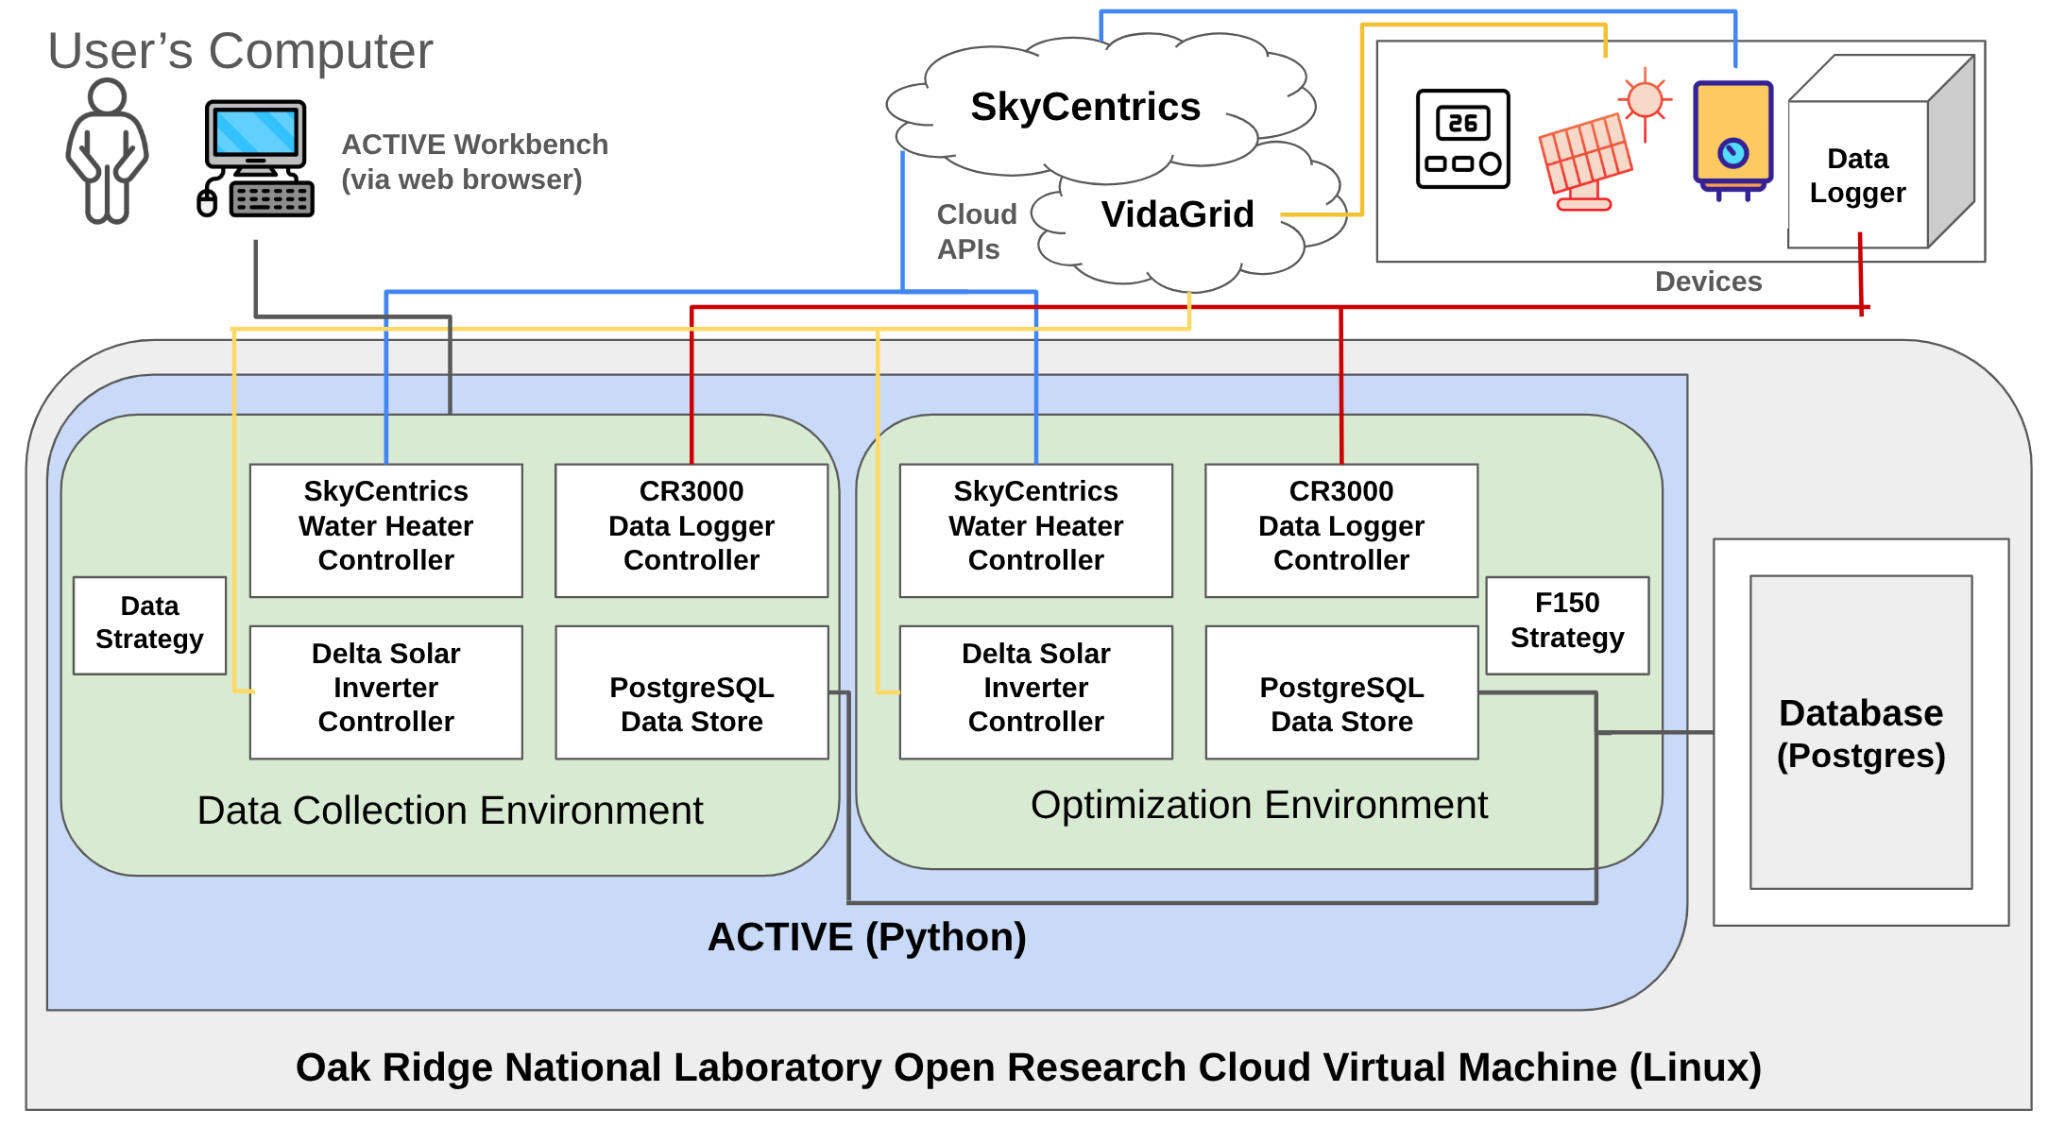
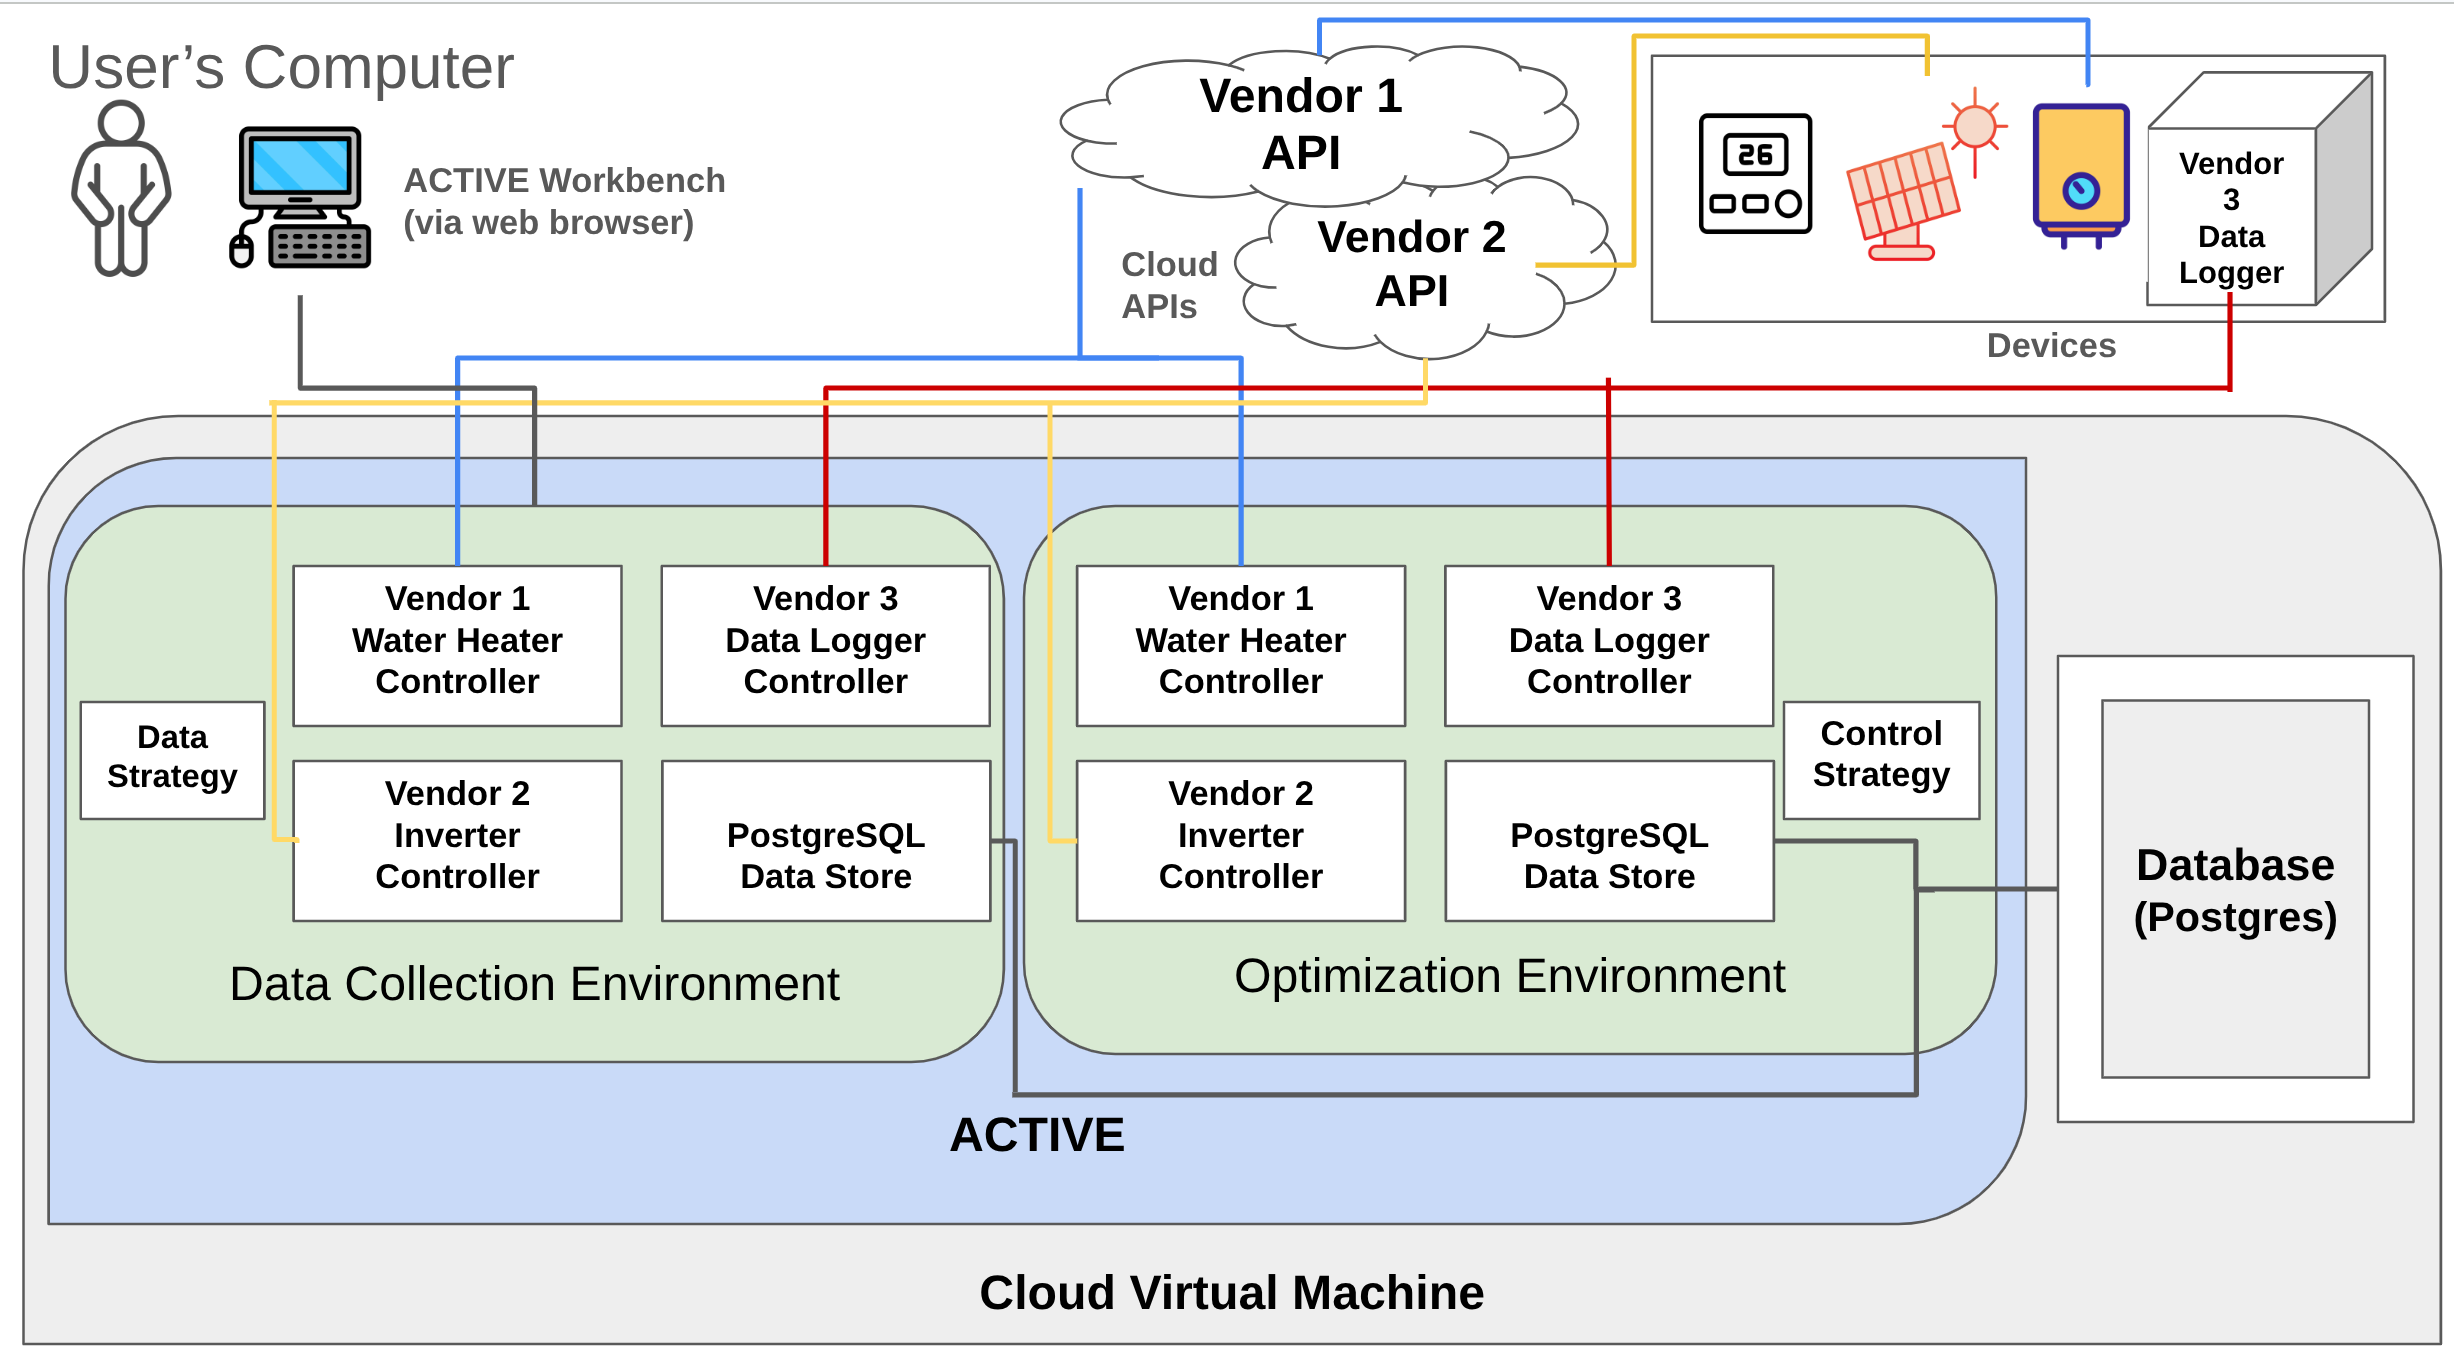
Improved project overview
Added more detailed example case to project overview in README

Changed region(s): [[0.0, 0.0, 1.0, 0.9982]]

diff --git a/README.md b/README.md
@@ -4,10 +4,13 @@ The Automated Control Testbed for Integration, Verification, and Emulation (ACTI
 
 ## Overview
 
-ACTIVE is used to perform deployment and testing of facility management research codes. The general use case involves wrapping business logic in ACTIVE Component subclasses, then creating one or more Environment files which define how those Components are to be deployed.
+ACTIVE is used to perform deployment and testing of facility management research codes. The general use case involves wrapping business logic in ACTIVE Component subclasses, then creating one or more Environment files which define how those Components are to be deployed. Each Environment may describe one scenario in which a single code is to be deployed (such as local simulation versus field validation) and multiple Environments can be used together to handle different goals for the facility.
+
+![Diagram of five ACTIVE environments](images/ACTIVE_environments_example.png)
+Above: An example of how Environments may be set up in a realistic use case. The local Environment in red launches an EnergyPlus simulation for algorithm development and testing by scientists on their own computers. The experiment Environment in purple and the remote experiment Environment in blue deploy the software for a real field validation experiment, the difference being that the experiment Environment is intended to be run inside the facility's network while the remote experiment Environment utilizes a server that allows remote calls from verified users outside that network. The experiment test Environment (yellow) and remote experiment test Environment (green) integrate the same Controllers and Multiplexers but with different configurations, pointing them to communicate with Emulators which are also launched by the Environment, allowing a communications test before physical deployment, especially in cases where the physical facility is already in use. The different Environments reuse many Components. Of special note is the AI Strategy Component, which contains the entire of the scientific control algorithm. All algorithmic development is centered in that one class which is run agnostic of whether it is being deployed into a simulation or at the physical facility, allowing complete compartmentalization of AI and communication software development. Likewise, the AI Strategy can be swapped out for a different Rule Based Strategy while leaving the rest of the code untouched.
 
 ![Diagram of two ACTIVE environments](images/ACTIVE_use_case.png)
-Above: An example of a project that used ACTIVE to handle code deployment. Each Environment contains a number of Components, each of which handle a specific part of the integration. Controllers perform calls to remote devices, Data Stores provide read and write access to long term data storage, and Strategies execute control logic. Note that not all the above Components are contained in ACTIVE, as some are project specific extensions.
+Above: An example of a project that used ACTIVE to handle code deployment. Each Environment contains a number of Components, each of which handle a specific part of the integration. Controllers perform calls to remote devices, Data Stores provide read and write access to long term data storage, and Strategies execute control logic. Note that not all the above Components are necessarily contained in ACTIVE, as some may instead be project specific extensions to allow support for additional vendors.
 
 To prepare your code for use with ACTIVE, a minimal working product will consist of one custom ACTIVEStrategy subclass that contains the code to run and an Environment file that lists your code as an Extension and defines a Strategy of your custom type and an Agent to run it. From there, you can begin adding more Components or other ACTIVE features such as:
 
